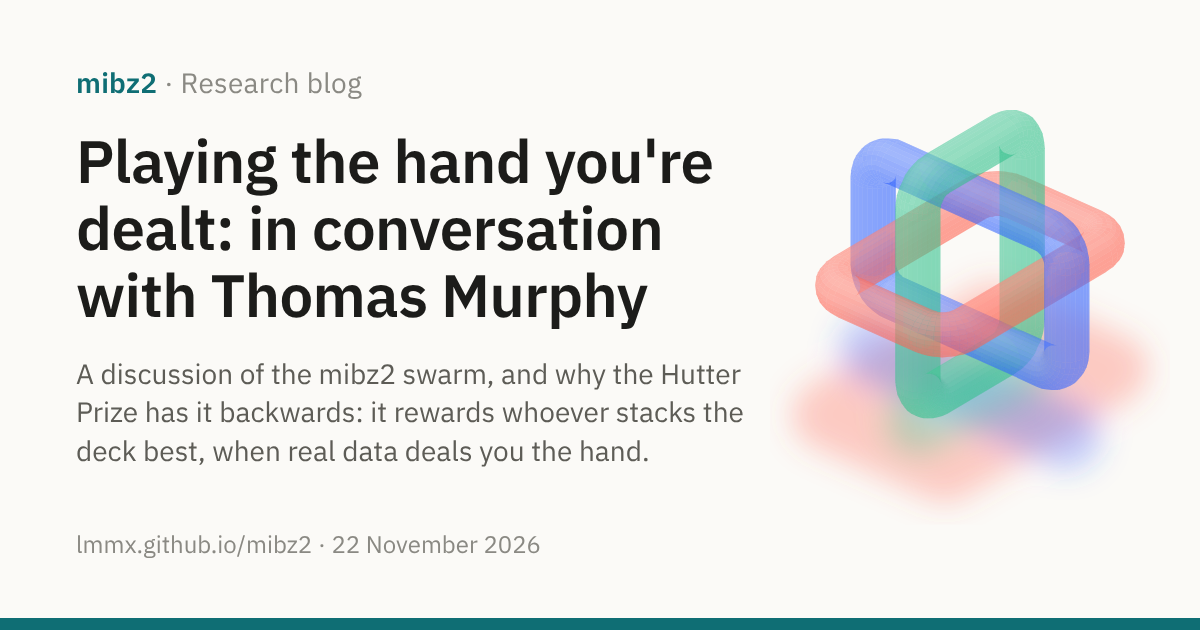
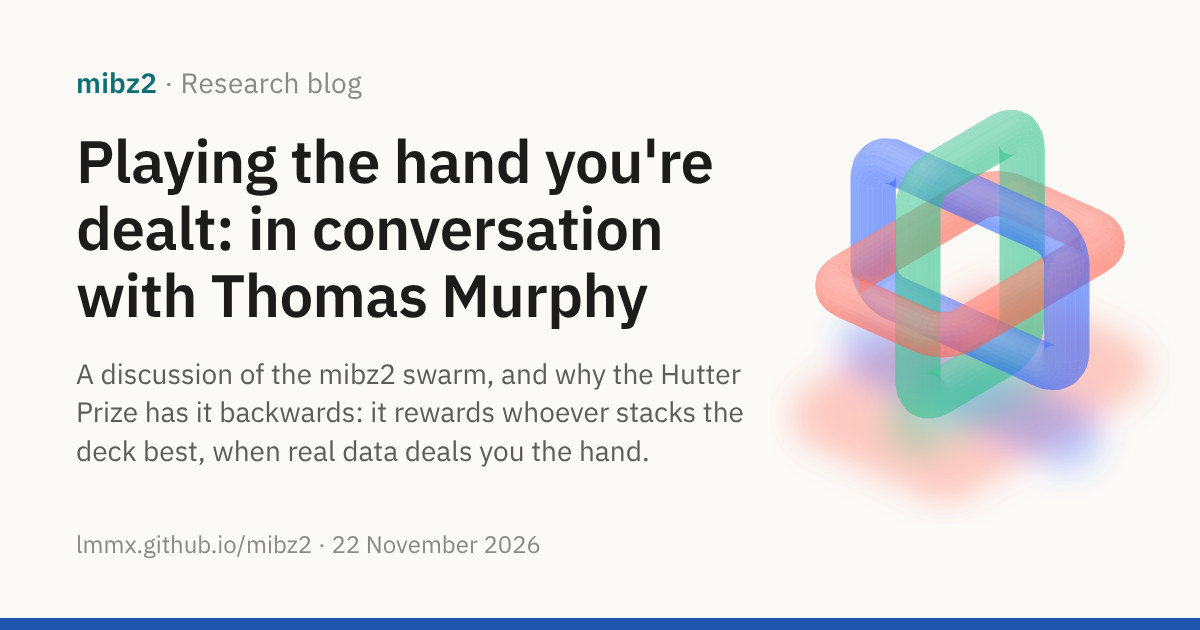
site: a post's kind has one table, and an uncoloured label fails the check
The Thomas Murphy post's label was plain `Meta`, not `[Meta](#section)`. Three places only
recognised the linked form, so its hero and social card fell back to the default teal while its
index card was blue, and check_site.py skipped the label without a word.

- One table: social_cards.py's KINDS is the only list of labels and kinds; check_site.py reads it.
- No silent skips: check_site.py fails an unlinked label, a label that isn't a known kind, and any
  drift between that table and blog.js's copy, or between the cards' bar colours and blog.css's
  kind colours (checked by changing one colour: it fails).
- The post's label is [Meta](#compendium), and its social card is redrawn with the Meta bar.

Changed region(s): [[0.0, 0.9651, 1.0, 1.0]]

diff --git a/docs/site/assets/javascripts/blog.js b/docs/site/assets/javascripts/blog.js
@@ -585,7 +585,7 @@
     show();
   };
 
-  // keep in step with KINDS in docs/scripts/check_site.py
+  // a copy of KINDS in docs/scripts/social_cards.py; check_site.py fails if they differ
   const KINDS = {
     "Research result": "result",
     "Research synthesis": "synthesis",

diff --git a/docs/scripts/check_site.py b/docs/scripts/check_site.py
@@ -219,20 +219,11 @@ def check_posts(config, problems):
                 problems.append(f"blog/index.md: the card dek for {post.name} differs from its dek")
 
 
-# A post's label and its kind; blog.js colours each kind (keep in step with KINDS there).
-KINDS = {
-    "Research result": "result",
-    "Research synthesis": "synthesis",
-    "Research in progress": "progress",
-    "Work in progress": "progress",
-    "Investigation in progress": "progress",
-    "Open question": "question",
-    "Meta": "meta",
-}
-
-
 def check_kinds(config, problems):
-    """Every post's label, on the post and on its index card, is one of KINDS, and they agree."""
+    """Every post's label is a linked kind from social_cards.KINDS, its index card agrees, and
+    blog.js and blog.css colour exactly those kinds, in the colours the social cards use."""
+    sc = social_cards()
+    kinds = sc.KINDS
     blog = ROOT / config["project"]["docs_dir"] / "blog"
     cards = dict(
         re.findall(
@@ -244,20 +235,43 @@ def check_kinds(config, problems):
     for post in sorted(blog.glob("*.md")):
         if post.name == "index.md":
             continue
-        m = re.search(r"·\s*\[([^\]]+)\]\([^)]*\)\s*\n\{: \.post-meta \}", post.read_text())
-        if not m:
+        found = sc.post_label(post.read_text())
+        if not found:
             continue  # no labelled meta line, as on an appendix
-        label = m.group(1).strip()
-        if label not in KINDS:
+        label, linked = found
+        if label not in kinds:
             problems.append(
                 f"blog/{post.name}: the label {label!r} is not a known kind "
-                f"(check_site.py KINDS: {', '.join(KINDS)})"
+                f"(social_cards.py KINDS: {', '.join(kinds)})"
+            )
+        elif not linked:
+            problems.append(
+                f"blog/{post.name}: the label {label!r} must be a link, [{label}](#section), "
+                "or its hero and social card lose their kind's colour"
             )
         card = cards.get(post.name)
         if card is not None and card.strip() != label:
             problems.append(
                 f"blog/index.md: the card label for {post.name} ({card.strip()!r}) "
                 f"differs from the post's ({label!r})"
+            )
+    # blog.js's own copy of the table
+    js = (ROOT / config["project"]["docs_dir"] / "assets/javascripts/blog.js").read_text()
+    m = re.search(r"const KINDS = \{(.*?)\};", js, re.S)
+    js_kinds = dict(re.findall(r'"([^"]+)":\s*"([^"]+)"', m.group(1))) if m else {}
+    if js_kinds != kinds:
+        problems.append("assets/javascripts/blog.js: KINDS differs from social_cards.py KINDS")
+    # blog.css's light colours, which the social cards' bars copy
+    css = (ROOT / config["project"]["docs_dir"] / "assets/stylesheets/blog.css").read_text()
+    lines = dict(
+        re.findall(r'^\.md-typeset \.post-card\[data-kind="(\w+)"\] \{ --kind-line: (#[0-9a-fA-F]{6}); \}', css, re.M)
+    )
+    for kind in sorted(set(kinds.values())):
+        if kind not in lines:
+            problems.append(f"assets/stylesheets/blog.css: no .post-card colour for the kind {kind!r}")
+        elif sc.BARS.get(kind, "").lower() != lines[kind].lower():
+            problems.append(
+                f"social_cards.py BARS[{kind!r}] ({sc.BARS.get(kind)}) differs from blog.css ({lines[kind]})"
             )
 
 

diff --git a/docs/scripts/social_cards.py b/docs/scripts/social_cards.py
@@ -110,8 +110,24 @@ def find_chrome(arg):
     sys.exit("no Chromium found: pass --chrome PATH or set CHROME")
 
 
-# a post's kind (its label: docs/scripts/check_site.py KINDS) sets the colour of the card's
-# bottom bar, the light scheme's colours in docs/site/assets/stylesheets/blog.css
+# A post's label (the last item of its meta line) and its kind. This is the one table:
+# check_site.py reads it, and fails if blog.js's KINDS or blog.css's kind colours drift from it.
+KINDS = {
+    "Research result": "result",
+    "Research synthesis": "synthesis",
+    "Research in progress": "progress",
+    "Work in progress": "progress",
+    "Investigation in progress": "progress",
+    "Open question": "question",
+    "Meta": "meta",
+}
+
+# The meta line's label: `· [Label](#section)` before `{: .post-meta }`. A label must be a link
+# to its post's closing section; check_site.py fails an unlinked one, which nothing would colour.
+META_LABEL = re.compile(r"·\s*(\[([^\]]+)\]\([^)]*\)|([^·\n\[]+?))\s*\n\{: \.post-meta \}")
+
+# a post's kind sets the colour of the card's bottom bar: the light scheme's colours in
+# docs/site/assets/stylesheets/blog.css (its .post-card --kind-line), which check_site.py compares
 BARS = {
     "result": "#1b7339",
     "synthesis": "#0b6e70",
@@ -164,23 +180,18 @@ DEFAULT_DESCRIPTION = (
 )
 
 
-def post_kind(post):
-    """The post's kind, from the label on its meta line (check_site.py keeps labels to KINDS)."""
-    m = re.search(r"·\s*\[([^\]]+)\]\([^)]*\)\s*\n\{: \.post-meta \}", post.read_text())
+def post_label(text):
+    """The label on a post's meta line, and whether it is a link: (label, linked), or None."""
+    m = META_LABEL.search(text)
     if not m:
         return None
-    label = m.group(1).strip()
-    if label == "Research synthesis":
-        return "synthesis"
-    if label == "Open question":
-        return "question"
-    if label == "Meta":
-        return "meta"
-    if label.endswith("in progress"):
-        return "progress"
-    if label == "Research result":
-        return "result"
-    return None
+    return (m.group(2).strip(), True) if m.group(2) else (m.group(3).strip(), False)
+
+
+def post_kind(post):
+    """The post's kind, from the label on its meta line (KINDS)."""
+    found = post_label(post.read_text())
+    return KINDS.get(found[0]) if found else None
 
 
 def cards(root=Path(".")):

diff --git a/docs/site/blog/2026-11-22-decompression-is-the-harder-problem.md b/docs/site/blog/2026-11-22-decompression-is-the-harder-problem.md
@@ -16,7 +16,7 @@ description: "A discussion of the mibz2 swarm, and why the Hutter Prize has it b
 A discussion of the mibz2 swarm, and why the Hutter Prize has it backwards: it rewards whoever stacks the deck best, when real data deals you the hand.
 {: .post-dek }
 
-22 November 2026 · 15 min read · Meta
+22 November 2026 · 15 min read · [Meta](#compendium)
 {: .post-meta }
 
 </div>
